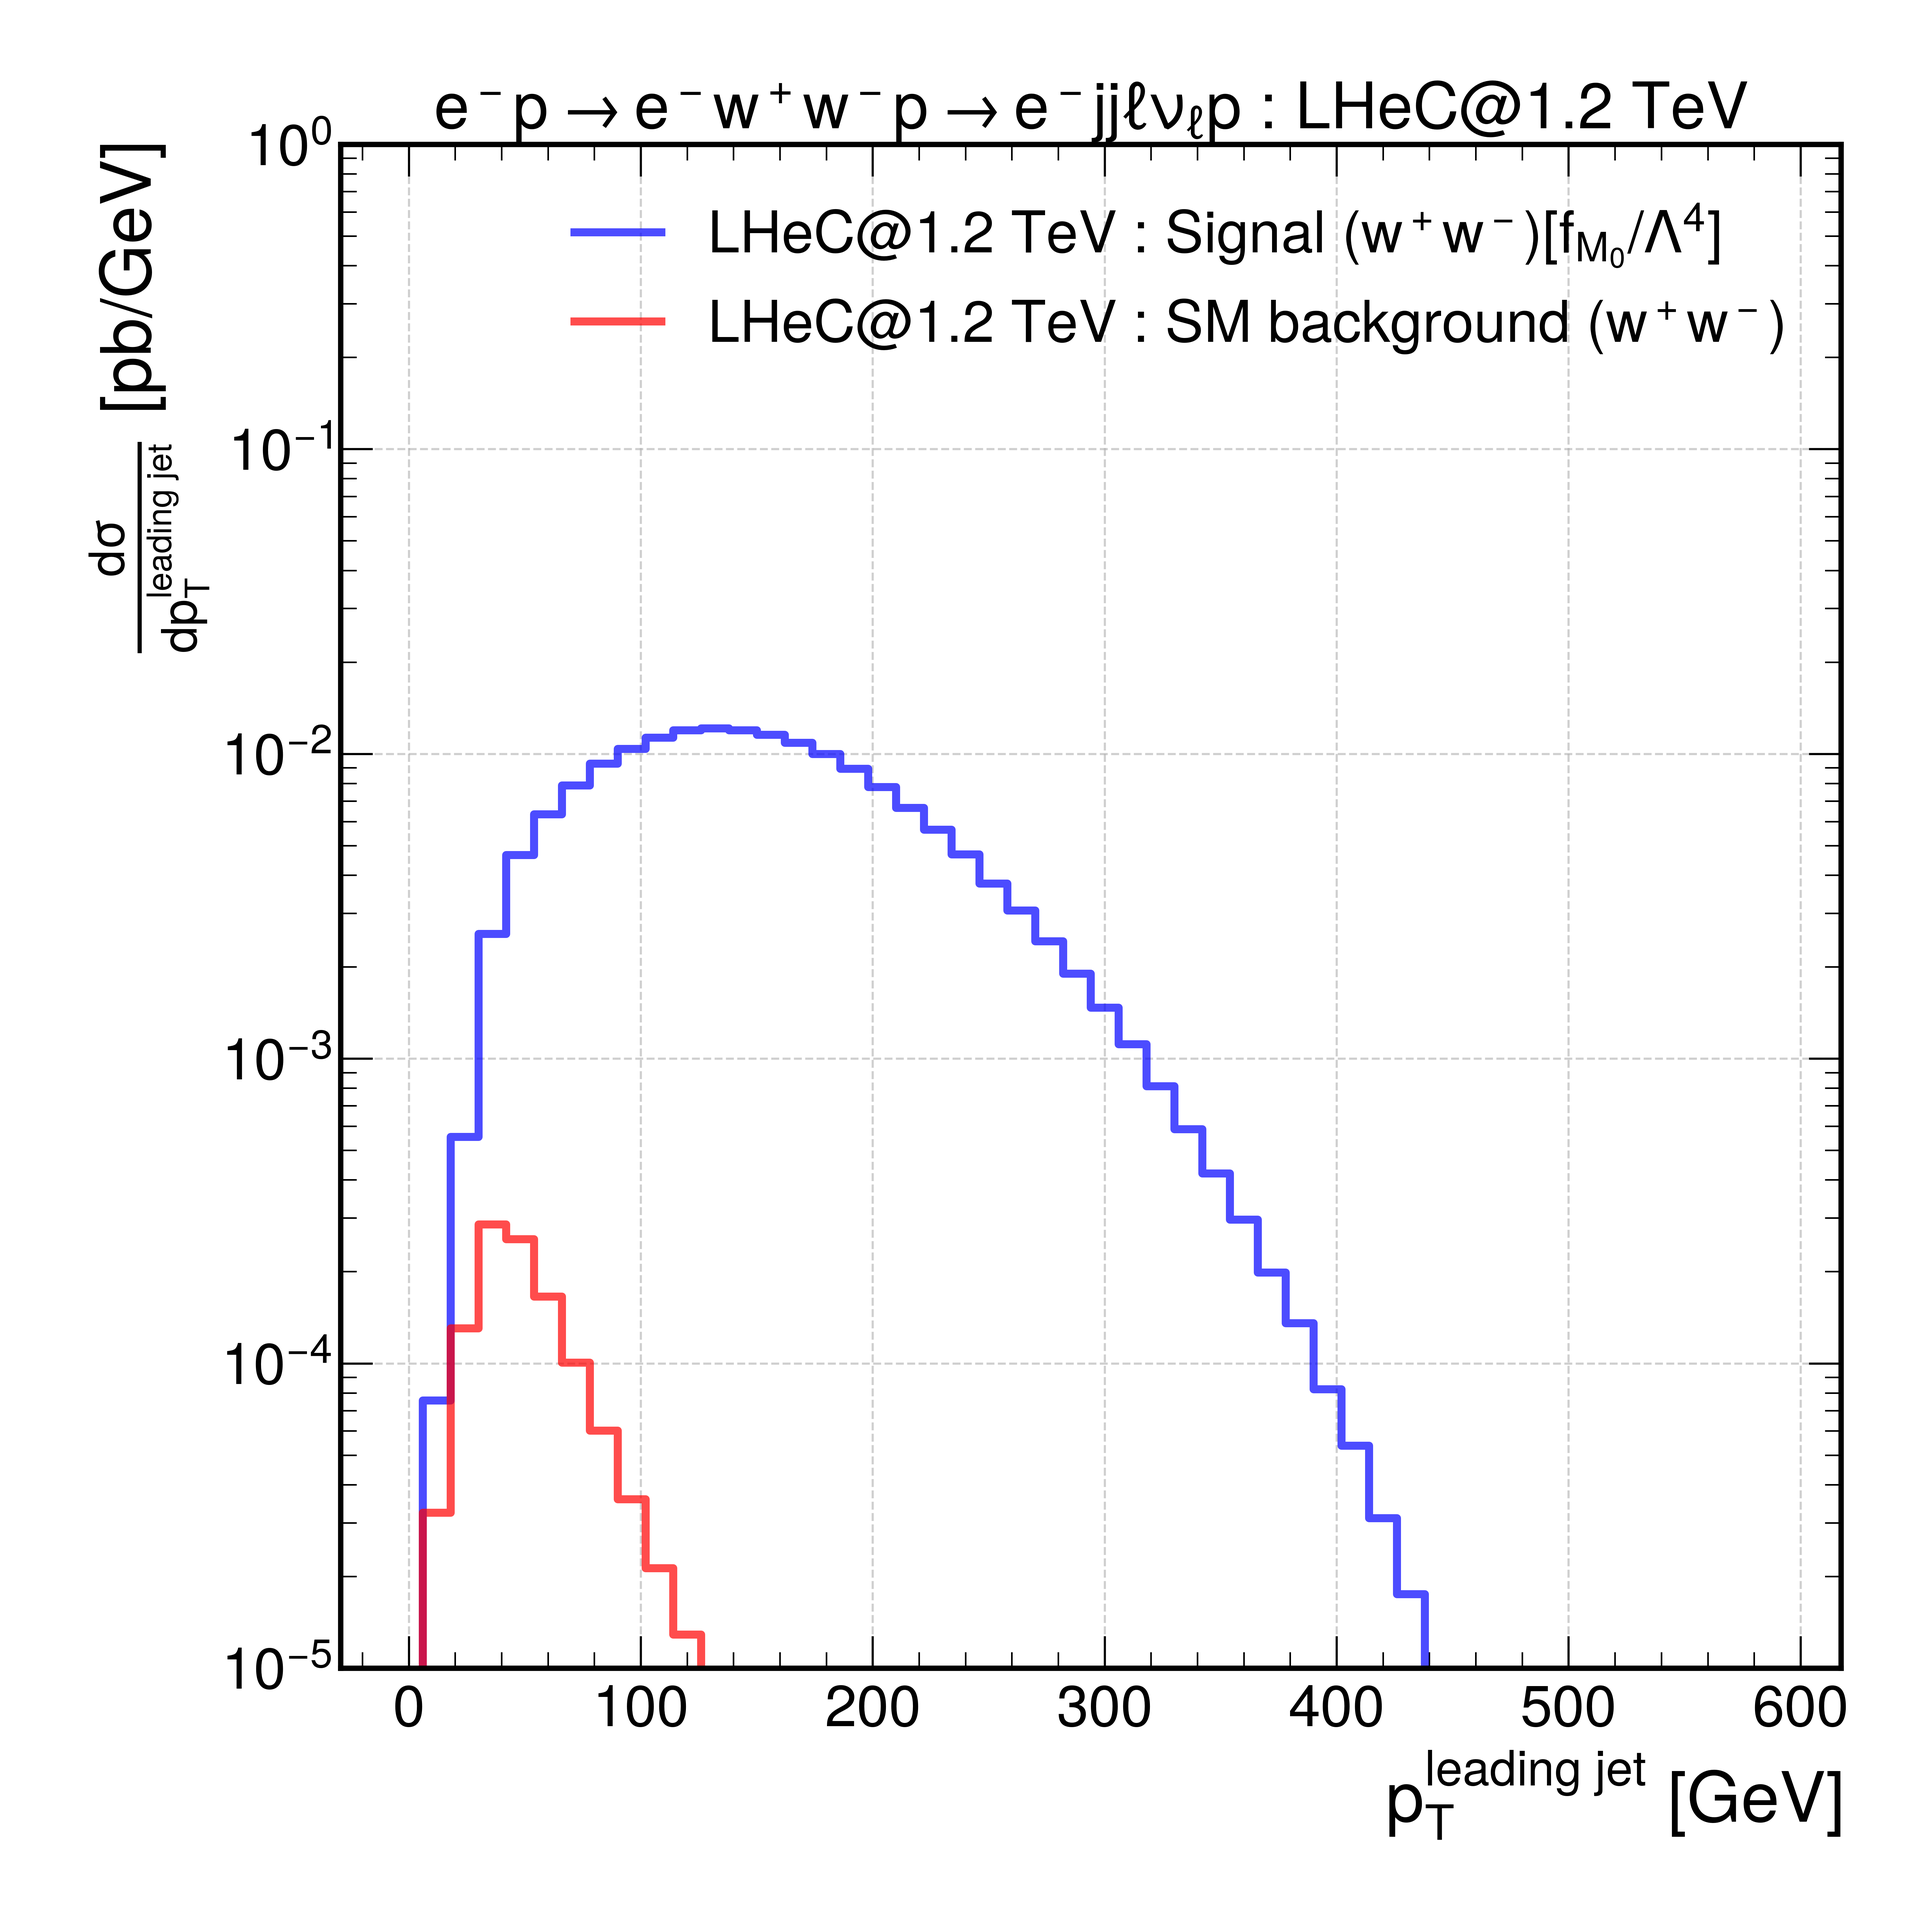
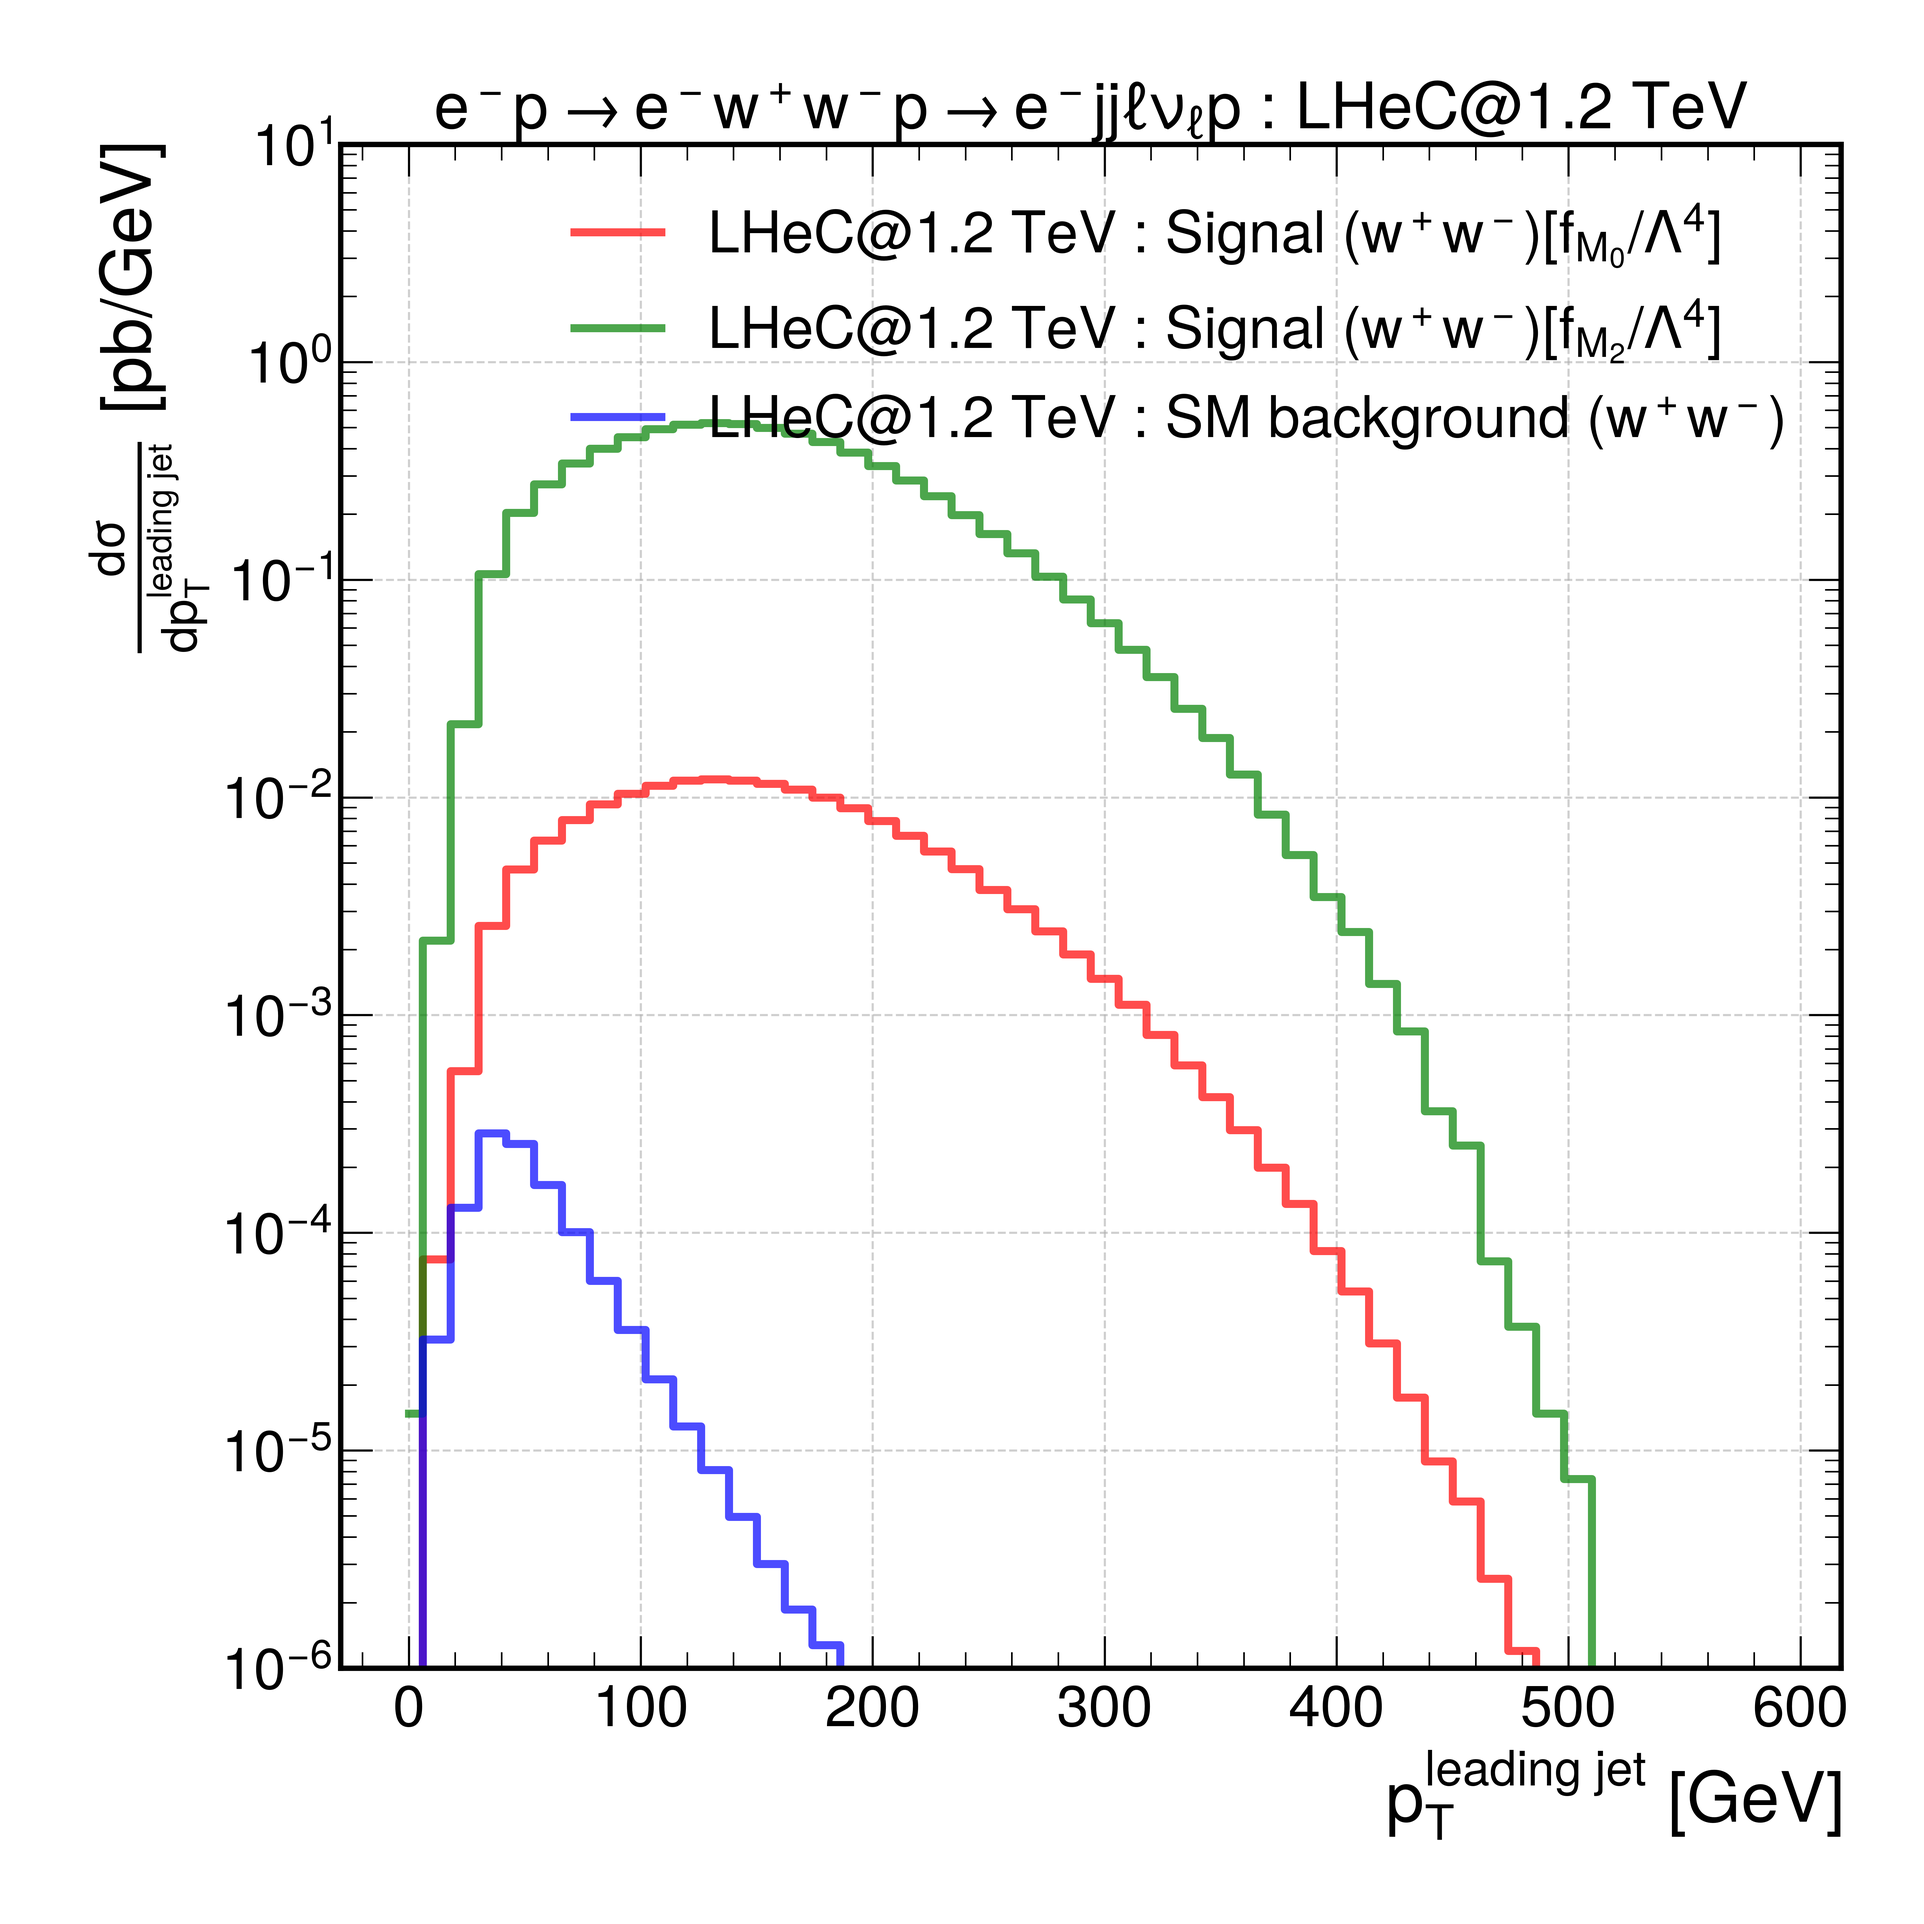
updates plots
updates plots

diff --git a/aa_to_ww_analysis_code/aa_to_ww_analysis_code_dsigmapTlep_dsigmaEta_dsigmapTjet.py b/aa_to_ww_analysis_code/aa_to_ww_analysis_code_dsigmapTlep_dsigmaEta_dsigmapTjet.py
@@ -99,17 +99,21 @@ plt.subplots_adjust(left=0.15, right=0.95, bottom=0.12, top=0.95)
 
 
 # Parse signal and background files
-signal_file = "/home/hamzeh-khanpour/MG5_aMC_v3_5_7/aa_ww_semi_leptonic_NP/Events/run_01/aa_ww_semi_leptonic_NP.lhe"
+signal_file_0 = "/home/hamzeh-khanpour/MG5_aMC_v3_5_7/aa_ww_semi_leptonic_NP/Events/run_01/aa_ww_semi_leptonic_NP_FM0.lhe"
+signal_file_2 = "/home/hamzeh-khanpour/MG5_aMC_v3_5_7/aa_ww_semi_leptonic_NP/Events/run_03/aa_ww_semi_leptonic_NP_FM2.lhe"
 background_file = "/home/hamzeh-khanpour/MG5_aMC_v3_5_7/aa_ww_semi_leptonic_SM/Events/run_01/aa_ww_semi_leptonic_SM.lhe"
 
 
-pt_leptons_signal, eta_leptons_signal, pt_leading_jet_signal = parse_lhe_file(signal_file)
+pt_leptons_signal_0, eta_leptons_signal_0, pt_leading_jet_signal_0 = parse_lhe_file(signal_file_0)
+pt_leptons_signal_2, eta_leptons_signal_2, pt_leading_jet_signal_2 = parse_lhe_file(signal_file_2)
+
 pt_leptons_background, eta_leptons_background, pt_leading_jet_background = parse_lhe_file(background_file)
 
 
 
 # Parameters for differential cross-section
-signal_cross_section = 2.05983  # pb
+signal_cross_section_0 = 2.05983  # pb
+signal_cross_section_2 = 88.79  # pb
 background_cross_section = 0.0134802  # pb
 num_bins = 50
 pt_range_lepton = (0, 400)  # Range for lepton pT
@@ -133,13 +137,17 @@ def calculate_dsigma(data, total_cross_section, bin_width, data_range):
 
 
 # Calculate differential cross-sections for lepton pT, eta, and leading jet pT
-pt_bins_signal, dsigma_signal_pt = calculate_dsigma(pt_leptons_signal, signal_cross_section, bin_width_pt_lepton, pt_range_lepton)
+pt_bins_signal_0, dsigma_signal_pt_0 = calculate_dsigma(pt_leptons_signal_0, signal_cross_section_0, bin_width_pt_lepton, pt_range_lepton)
+pt_bins_signal_2, dsigma_signal_pt_2 = calculate_dsigma(pt_leptons_signal_2, signal_cross_section_2, bin_width_pt_lepton, pt_range_lepton)
 pt_bins_background, dsigma_background_pt = calculate_dsigma(pt_leptons_background, background_cross_section, bin_width_pt_lepton, pt_range_lepton)
 
-eta_bins_signal, dsigma_signal_eta = calculate_dsigma(eta_leptons_signal, signal_cross_section, bin_width_eta, eta_range)
+
+eta_bins_signal_0, dsigma_signal_eta_0 = calculate_dsigma(eta_leptons_signal_0, signal_cross_section_0, bin_width_eta, eta_range)
+eta_bins_signal_2, dsigma_signal_eta_2 = calculate_dsigma(eta_leptons_signal_2, signal_cross_section_2, bin_width_eta, eta_range)
 eta_bins_background, dsigma_background_eta = calculate_dsigma(eta_leptons_background, background_cross_section, bin_width_eta, eta_range)
 
-pt_jet_bins_signal, dsigma_signal_jet_pt = calculate_dsigma(pt_leading_jet_signal, signal_cross_section, bin_width_pt_jet, pt_range_jet)
+pt_jet_bins_signal_0, dsigma_signal_jet_pt_0 = calculate_dsigma(pt_leading_jet_signal_0, signal_cross_section_0, bin_width_pt_jet, pt_range_jet)
+pt_jet_bins_signal_2, dsigma_signal_jet_pt_2 = calculate_dsigma(pt_leading_jet_signal_2, signal_cross_section_2, bin_width_pt_jet, pt_range_jet)
 pt_jet_bins_background, dsigma_background_jet_pt = calculate_dsigma(pt_leading_jet_background, background_cross_section, bin_width_pt_jet, pt_range_jet)
 
 
@@ -147,8 +155,9 @@ pt_jet_bins_background, dsigma_background_jet_pt = calculate_dsigma(pt_leading_j
 # Plot the differential cross-sections
 # plt.figure(figsize=(10, 8))
 
-plt.step(pt_bins_signal, dsigma_signal_pt, where="mid", alpha=0.7, label="LHeC@1.2 TeV : Signal ($w^+ w^-) [f_{M_0} / \Lambda^4$]", color="blue", linewidth=3)
-plt.step(pt_bins_background, dsigma_background_pt, where="mid", alpha=0.7, label="LHeC@1.2 TeV : SM background ($w^+ w^-$)", color="red", linewidth=3)
+plt.step(pt_bins_signal_0, dsigma_signal_pt_0, where="mid", alpha=0.7, label="LHeC@1.2 TeV : Signal ($w^+ w^-) [f_{M_0} / \Lambda^4$]", color="red", linewidth=3)
+plt.step(pt_bins_signal_2, dsigma_signal_pt_2, where="mid", alpha=0.7, label="LHeC@1.2 TeV : Signal ($w^+ w^-) [f_{M_2} / \Lambda^4$]", color="green", linewidth=3)
+plt.step(pt_bins_background, dsigma_background_pt, where="mid", alpha=0.7, label="LHeC@1.2 TeV : SM background ($w^+ w^-$)", color="blue", linewidth=3)
 plt.xlabel(r"$p_T^{\ell} \ \mathrm{[GeV]}$")
 plt.ylabel(r"$\frac{d\sigma}{dp_T^{\ell}} \ \mathrm{[pb/GeV]}$")
 plt.title(r"$e^- p \to e^- w^+ w^- p \to e^- j j \ell \nu_{\ell} p$ : LHeC@1.2 TeV", fontsize=24)
@@ -156,7 +165,7 @@ plt.yscale("log")
 plt.legend()
 plt.grid(True, linestyle="--", alpha=0.6)
 plt.tight_layout()
-plt.ylim(0.00001, 1.0)
+plt.ylim(0.000001, 10.0)
 plt.savefig("differential_cross_section_pt.png", dpi=600)
 plt.show()
 
@@ -165,13 +174,14 @@ plt.show()
 # Plot the differential cross-sections for eta
 #plt.figure(figsize=(10, 8))
 
-plt.step(eta_bins_signal, dsigma_signal_eta, where="mid", alpha=0.7, label="LHeC@1.2 TeV : Signal ($w^+ w^-) [f_{M_0} / \Lambda^4$]", color="blue", linewidth=3)
-plt.step(eta_bins_background, dsigma_background_eta, where="mid", alpha=0.7, label="LHeC@1.2 TeV : SM background ($w^+ w^-$)", color="red", linewidth=3)
+plt.step(eta_bins_signal_0, dsigma_signal_eta_0, where="mid", alpha=0.7, label="LHeC@1.2 TeV : Signal ($w^+ w^-) [f_{M_0} / \Lambda^4$]", color="red", linewidth=3)
+plt.step(eta_bins_signal_2, dsigma_signal_eta_2, where="mid", alpha=0.7, label="LHeC@1.2 TeV : Signal ($w^+ w^-) [f_{M_2} / \Lambda^4$]", color="green", linewidth=3)
+plt.step(eta_bins_background, dsigma_background_eta, where="mid", alpha=0.7, label="LHeC@1.2 TeV : SM background ($w^+ w^-$)", color="blue", linewidth=3)
 plt.xlabel(r"$\eta^{\ell}$")
 plt.ylabel(r"$\frac{d\sigma}{d\eta^{\ell}} \ \mathrm{[pb]}$")
 plt.title(r"$e^- p \to e^- w^+ w^- p \to e^- j j \ell \nu_{\ell} p$ : LHeC@1.2 TeV", fontsize=24)
 plt.yscale("log")
-plt.ylim(0.00001, 1.0)
+plt.ylim(0.000001, 10.0)
 plt.legend()
 plt.grid(True, linestyle="--", alpha=0.6)
 plt.tight_layout()
@@ -183,13 +193,14 @@ plt.show()
 # Plot the differential cross-sections for leading jet pT
 #plt.figure(figsize=(10, 8))
 
-plt.step(pt_jet_bins_signal, dsigma_signal_jet_pt, where="mid", alpha=0.7, label="LHeC@1.2 TeV : Signal ($w^+ w^-) [f_{M_0} / \Lambda^4$]", color="blue", linewidth=3)
-plt.step(pt_jet_bins_background, dsigma_background_jet_pt, where="mid", alpha=0.7, label="LHeC@1.2 TeV : SM background ($w^+ w^-$)", color="red", linewidth=3)
+plt.step(pt_jet_bins_signal_0, dsigma_signal_jet_pt_0, where="mid", alpha=0.7, label="LHeC@1.2 TeV : Signal ($w^+ w^-) [f_{M_0} / \Lambda^4$]", color="red", linewidth=3)
+plt.step(pt_jet_bins_signal_2, dsigma_signal_jet_pt_2, where="mid", alpha=0.7, label="LHeC@1.2 TeV : Signal ($w^+ w^-) [f_{M_2} / \Lambda^4$]", color="green", linewidth=3)
+plt.step(pt_jet_bins_background, dsigma_background_jet_pt, where="mid", alpha=0.7, label="LHeC@1.2 TeV : SM background ($w^+ w^-$)", color="blue", linewidth=3)
 plt.xlabel(r"$p_T^{\mathrm{leading~jet}} \ \mathrm{[GeV]}$")
 plt.ylabel(r"$\frac{d\sigma}{dp_T^{\mathrm{leading~jet}}} \ \mathrm{[pb/GeV]}$")
 plt.title(r"$e^- p \to e^- w^+ w^- p \to e^- j j \ell \nu_{\ell} p$ : LHeC@1.2 TeV", fontsize=24)
 plt.yscale("log")
-plt.ylim(0.00001, 1.0)
+plt.ylim(0.000001, 10.0)
 plt.legend()
 plt.grid(True, linestyle="--", alpha=0.6)
 plt.tight_layout()
@@ -199,17 +210,17 @@ plt.show()
 
 
 # Save data for pT lepton
-np.savetxt("dsigma_signal_pt.txt", np.column_stack([pt_bins_signal, dsigma_signal_pt]), header="pT [GeV], dσ/dpT [pb/GeV]")
+np.savetxt("dsigma_signal_pt.txt", np.column_stack([pt_bins_signal_0, dsigma_signal_pt_0]), header="pT [GeV], dσ/dpT [pb/GeV]")
 np.savetxt("dsigma_background_pt.txt", np.column_stack([pt_bins_background, dsigma_background_pt]), header="pT [GeV], dσ/dpT [pb/GeV]")
 
 
 # Save data for eta lepton
-np.savetxt("dsigma_signal_eta.txt", np.column_stack([eta_bins_signal, dsigma_signal_eta]), header="eta, dσ/deta [pb]")
+np.savetxt("dsigma_signal_eta.txt", np.column_stack([eta_bins_signal_0, dsigma_signal_eta_0]), header="eta, dσ/deta [pb]")
 np.savetxt("dsigma_background_eta.txt", np.column_stack([eta_bins_background, dsigma_background_eta]), header="eta, dσ/deta [pb]")
 
 
 # Save data for leading jet pT
-np.savetxt("dsigma_signal_leading_jet_pt.txt", np.column_stack([pt_jet_bins_signal, dsigma_signal_jet_pt]), header="pT [GeV], dσ/dpT [pb/GeV]")
+np.savetxt("dsigma_signal_leading_jet_pt.txt", np.column_stack([pt_jet_bins_signal_0, dsigma_signal_jet_pt_0]), header="pT [GeV], dσ/dpT [pb/GeV]")
 np.savetxt("dsigma_background_leading_jet_pt.txt", np.column_stack([pt_jet_bins_background, dsigma_background_jet_pt]), header="pT [GeV], dσ/dpT [pb/GeV]")
 
 
